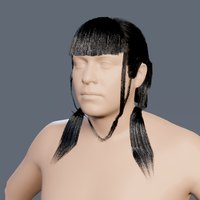
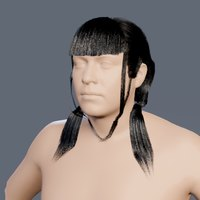
Hair editor v2.0: the Daz twin tails re-measured on v2female from two fitted cameras
With the head and neck now hers (v2female), the hairstyle was measured again
from cameras fitted by landmarks to her front and three-quarter pictures.

- styles.js daz_twin_tails: Fullness 0.33 (from 0.1: the top and sides were 0.4
  to 0.7 cm short all round; the plain Volume sliders do nothing to tied hair)
  and the tie 7 mm higher (Tie lower 3.3 cm, from 4: it sat 0.7 cm under hers on
  both sides). Its card made again.
- The hair's edge is now within about half a centimetre of hers from the crown
  to the tie in both views (the table in docs/HAIR_V2.md §10). Not matched: the
  tails under the ties (0.6 to 1.4 cm narrow, short at the tips), 0.7 to 1 cm
  behind the ear's top in the second view, the fringe's pieces, the sidelocks,
  the red streaks, the look's evenness.
- docs/HAIR_V2.md §10 rewritten: the head it is held on, the two views and how
  they are fitted, what her head's tilt does to the comparison, the numbers,
  and what the earlier "too wide by the tie" turned out to be (the neck, the
  tie's height and her pose, stacked). docs/CONTINUE.md.

Checked here: CHECKS ok (HAIR2 with it).

Claude-Session: https://claude.ai/code/session_014EE6XSs6cfVpYen7wFwNAY

diff --git a/tools/character/hair2/styles.js b/tools/character/hair2/styles.js
@@ -133,7 +133,7 @@ export const STYLES = {
   // thin sidelock a side. Held to the picture on the doll body (docs/HAIR_V2.md §10)
   daz_twin_tails: { label: "Low twin tails behind the ears, blunt fringe, long sidelocks", group: "daz",
     set: { parting: { kind: "none" }, ears: "tucked",
-      ties: { kind: "twin", height: 0, side: 0.85, tight: 0, drape: 1, full: 0.1, puff: 0.12, drop: 0.04,
+      ties: { kind: "twin", height: 0, side: 0.85, tight: 0, drape: 1, full: 0.33, puff: 0.12, drop: 0.033,
         tail: { length: 0.2, thick: 0.008, spread: 2, fan: 1, bloom: 0.65, flat: 0.7, out: 0.5, taper: 0.9, strands: 2.5, stiff: 0.8, fall: "front", sway: 0.8 }, tie: { kind: "elastic", colour: "#17120f" } },
       length: { fringe: 0.17 }, fringe: { kind: "blunt", line: 0.034, amount: 1.5, width: 52, hold: 0.7, wispy: 0.15, uneven: 0.1, choppy: 0.12, closed: 1, frame: 0.55, frameLine: -0.17, frameLocks: 1, frameStagger: 0, frameWispy: 0.6 }, texture: { clump: 0.3, strays: 20 }, look: "gloss_black" } },
   curls_shoulder: { label: "Shoulder-length curls", group: "women",

diff --git a/docs/HAIR_V2.md b/docs/HAIR_V2.md
@@ -399,72 +399,79 @@ head's hair 1.5 to 3 MB with its two 512 px textures.
 DECISIONS 2026-11-12, the 1:1: one hairstyle matched to its picture, to find what the system lacks. The style is
 `daz_twin_tails` (the group *From your Daz3D pictures*). The pictures stay out of git (`Saved/Hair2/daz/ref`).
 
-**The rig** (scratch scripts, not in git; the numbers are what matter). The style is grown on the body `v2female`
-(the Studio's v2female base at 1.62 m with a full bust, `grow.js` `V2FEMALE`; until item 8 below was done, the
-feminine base with a rounder face) and pictured by `tools/godot/hair2_check.py shots --origin 0,0,0 --size 1600x1200` from
-`v:-11:12:1.05:22:0:-0.07:-0.02` (11 degrees to her right, 12 above: her picture's camera as far as the ear, the
-eyes and the face's edges say). Her picture is turned level (her head is rolled 8.5 degrees), scaled 2.16 and laid
-eye-middle on eye-middle: at that one scale the ear's size, the ear-to-eye distance and the eyes' spacing agree with
-ours within a few percent (her picture is about 14 px to a centimetre). Then: side by side, her picture's edges
-over ours, and the hair's solid outer edge by height on her right side, hers against ours, in centimetres.
+**The head it is held on** is `v2female`, the Character Studio's base made for this (docs/CHARACTER_STUDIO.md §2f):
+her head and neck measured from the same two pictures. The test body adds 1.62 m and a full bust (`grow.js`
+`V2FEMALE`, `make.mjs --body v2female`). Until it existed the head was the feminine base with a rounder face, its
+neck 12 cm across at the ties where hers is 9: every number this section had before was measured on that body and
+is replaced below.
 
-**What is matched.**
-- The side, from above the ear down to 3 cm over the tie: within 0.3 cm of hers at every height (Drape 1, Fullness
-  0.1, Puff 0.12, the tie 4 cm lower, Gather 7.5 cm). Hers stands about 0.8 cm beyond the ear's rim as a solid edge
-  (1.3 with its wisps) and comes in to the tie as 1 − (1 − t)² over the last 7.3 cm: that is where Gather's number
-  and curve come from. Before: 0.4 to 2.6 cm too wide, or hidden behind the ear.
+**The rig** (scratch scripts in `rig2/`, not in git; the numbers are what matter). Two cameras, each fitted from
+landmarks, pictured by `tools/godot/hair2_check.py shots --origin 0,0,0 --size 1600x1200`:
+
+| her picture | view | the camera | her picture into our frame | landmarks land |
+|---|---|---|---|---|
+| the fifth (front) | `v:-9.5:5:1.05:22:0:-0.07:-0.02` | 9.5° to her right, 5° above | turned 7.9°, times 2.137 (29.3 px a centimetre) | 3.4 mm off (11 points) |
+| the first (her left front) | `v:32:-14.5:1.05:22:0:-0.07:-0.02` | 32° to her left, 14.5° below | turned -4.6°, times 2.091 (29.6 px a centimetre) | 2.8 mm off (10 points) |
+
+- *The landmarks*: on the body, MediaPipe's points through `Content/Studio/Bodies/MHR_landmarks.json` (the eyes'
+  middles, the nose's tip, under the nose, the mouth's corners, the chin) and the ear's top, rim and lobe as the
+  ear's own extremes in the view (the ear as `sculpt.js` finds it), the far ear's lobe where it shows; in her
+  picture, the same points read off gridded enlargements (her irises' middles for the eyes). Every turn and tilt
+  is tried on a grid and the roll, scale and shift come in closed form; the mapping that lays her picture into our
+  render comes from the same points as our camera draws them. Centimetres are the head's own (`body.js`: a head is
+  sized by its height from the top to the chin; v2female's frame is 6.6% smaller than the feminine base's on the
+  same skull, because its chin is higher: numbers tuned here are that much large for other bodies).
+- *The measure*: the hair's outer edge by height, counted in centimetres from the eyes' line (minus above it),
+  where a run of six dark pixels starts coming in from outside the head; on her right and her left in the front
+  picture, on her left in the other.
+- *Her pose, which the measure has to allow for*: her head is tilted 7.9° on her body in the front picture and
+  4.6° the other way in the other. Her hair hangs by the picture's own vertical, so against her head it hangs
+  inward on both measured sides (up to a centimetre by the tie, more down the tails), and her body under the chin
+  is turned by that much against ours in the frame. Her left side in the front picture can't be measured by its
+  edge: her sidelock hangs outermost there.
+
+**What is matched** (`daz_twin_tails`: Drape 1, Fullness 0.33, Puff 0.12, the tie 3.3 cm lower, Gather 7.5 cm).
+Ours against hers, centimetres, minus where ours is narrower:
+
+| under the eyes' line | front, her right | the other view, her left |
+|---|---|---|
+| 7 to 1 cm above | -0.3 to +0.1 | (her ears and horns: a headband, not hair) |
+| 0 to 1 | +0.2 to +0.3 | -1.0 to -0.7 |
+| 2 to 5 | 0.0 to -0.3 | -0.3 to 0.0 |
+| 6 to 8 (behind the ear's lower half) | -0.6 to -0.2 | +0.2 to -0.4 |
+| 9 to 11 (the tie) | +0.1 to -0.5 | -0.3 to -0.1 |
+| 12 to 13 | -0.3 to 0.0 | 0.0 (one row out by 1.4) |
+
+- So the hair's edge is within about half a centimetre of hers from the crown to the tie in both views. The two
+  settings that did it on the new head: **Fullness 0.33** (it was 0.1: the top and sides were 0.4 to 0.7 cm short
+  all the way round; the plain Volume sliders do nothing to tied hair, whose thickness is Fullness) and **the tie
+  7 mm higher** (Tie lower 3.3 cm, from 4: it sat 0.7 cm under hers on both sides, which read as 0.6 to 1 cm too
+  wide just over it).
 - The ears out, the hair behind them, nothing of it across the ear or the cheek.
-- The tie's place: level with hers; small and dark.
-- The tails: brushes that fan from the tie, lean out, taper to ragged tips; as long as hers.
 - The fringe's line (her lash line: 0.034), no gap down its middle, from the top of the head.
 - A long thin sidelock a side, to the chest.
 
-**What is not** (the list to work from, the biggest first):
+**What is not** (the list to work from):
 1. **The look**, in part. Under a light from the front every strand of ours lit up alike: a grey sheet, where hers
-   is black with bright strands. One term off at a time showed it was the highlight itself. The hair shader now has
-   **`streak`** (GODOT_LOOK §5p): the first highlight lock by lock, most locks dark and a few several times over,
-   about the same light in all; 0 for every other hair, 0.9 in the look `gloss_black` through its `bake`. Seen in
-   the rig: black with bright streak bundles, as hers. Still different: ours is striped evenly across the fringe
-   where hers has larger dark areas (her light is from one side; the rig's is from the front), and hers has a faint
-   teal tint in its highlights. The Studio's own shader has no `streak`: its tab shows the old sheen.
-2. **The tails right under the ties** were 0.9 to 2 cm wider than hers; leaving the tie almost plumb with the lean
-   building below, and widest further down (0.65), they are 0.8 to 0.9, and they lie inside her outlines on both
-   sides. Hers differ left and right (her head is tilted and the tails hang by gravity), ours are a pair; hers'
-   tips reach a little further out.
-3. **The last 3 cm over the tie**: 0.4 to 0.7 cm too wide, and the tie 0.6 to 0.8 cm further from the neck.
+   is black with bright strands. The hair shader has **`streak`** for that (GODOT_LOOK §5p): the first highlight
+   lock by lock; 0 for every other hair, 0.9 in the look `gloss_black` through its `bake`. Still different: ours
+   is striped evenly across the fringe where hers has larger dark areas (her light is from one side; the rig's is
+   from the front), and hers has a faint teal tint in its highlights. The Studio's own shader has no `streak`: its
+   tab shows the old sheen.
+2. **The tails under the ties.** On her right in the front picture ours are 0.6 to 1.4 cm narrower from 15 to 18 cm
+   under the eyes' line and 1 to 3 cm short at their tips. Hers hang by a vertical tilted 8° against her head and
+   are fuller lower down; ours are a pair. Not tuned on the new head yet.
+3. **Behind the ear's top, in the other view**: 0.7 to 1 cm narrow over the first centimetre under the eyes' line.
 4. **The fringe's pieces**: hers ends in locks with small steps and gaps; ours in a straighter line.
 5. **The sidelocks**: hers are flat glossy ribbons a centimetre wide that end in a point, a thin plait beside one;
    ours are thin strands, and there is no plait.
 6. **The red streaks**, the few fine strands across the ear, the flyaways: none.
-7. **From her left front**, her first picture, with a camera fitted to it. Seven points on `v2female`'s own
-   surface (the eyes, the ear's top, rim and lobe and the chin by casting the front rig's pixels onto the skin, the
-   nose's tip from the mesh) against the same points read off the picture; every turn and tilt tried, the roll,
-   scale and shift in closed form: **28 degrees to her left, 7 below, 14.5 px a centimetre** (within a pixel of
-   the best: 21 to 35, and 14 below to 1 above; the points land 7 px off, the ear's the most: her ears sit
-   higher than `v2female`'s). The scale agrees with the front picture's 14 on its own. In that frame, the hair's
-   outer edge behind her left ear, ours against hers by height: **0.4 to 0.8 cm too narrow behind the ear's upper
-   half, within 0.2 cm from its middle to under the lobe, 0.4 to 2 cm too wide by the tie.** Before the camera was
-   fitted this entry said hers stood 3.4 cm beyond the ear and ours 2: that was read by eye from 38 degrees with
-   her picture over-turned by 9, and it was wrong by about half.
-   *Fullness at the back* was held to both views and is **not used**: at 0.2 it gains 0.1 to 0.3 cm behind the
-   upper ear and loses 0.3 to 0.4 just over the tie, in both: the thickness is carried down the hanging hair into
-   the part that is already too wide. The tie moved forward under the ear's middle: worse from the front, the same
-   from here. What both views say is that ours carries its width too low (a pear, hers a bulb): the hanging hair
-   should come in sooner from a fuller top. Not built. The back is in no picture.
-8. **The head, and it is the cause of the error by the tie.** Read off her picture (14 px a centimetre), her head
-   from the front is about 11.6 cm wide at the lips, 9.1 at the tie's height and 7.5 at the neck: a small V of a
-   face on a slender neck. `v2female` is 14.0, 13.0 and 12.0 (the body's own outline at those heights): 4 cm wider
-   at the tie's height, 2 a side. The tie hangs beside it, so it sits 2 cm further out, which is the size of what
-   both views show there (0.4 to 2 cm too wide over the last centimetres and at the tie). The sculpt can't reach
-   her: with the jaw and the neck at -3 (past a person's range), the chin's width and the cheeks at -2, the same
-   three are 13.8, 12.8 and 11.8. **So a v2female base is required** (the user's condition, DECISIONS 2026-11-12,
-   the 1:1): a lower face and a neck with far more reach than the sliders have, as a base that every slider still
-   moves from. Until it exists the hair by the tie can't be judged closer than about 2 cm, and the two cameras
-   have to be fitted again on it. Her ears also sit higher on the face than `v2female`'s.
-   **Built since** (DECISIONS 2026-11-12, v2female; docs/CHARACTER_STUDIO.md §2f): the Studio's v2female base, with
-   a new control for the whole neck. On it the neck is 7.4 cm at its narrowest (the feminine base's 10.3; hers
-   about 7.5), the eyes 6.7 cm apart (5.7), the jaw narrower. `bodyByName("v2female")` is that base now, so
-   **every number above this line was measured on the body before it** and stands until the rig is fitted again.
+7. **The back** is in no picture.
+
+**What the earlier findings turned out to be.** Before the base, this section said the hair was 0.4 to 2 cm too wide
+by the tie and blamed the head: right, and more than it knew. Three things were stacked: the neck (12 cm across at
+the ties, hers 9.3: the base), the tie 0.7 cm too low (this style), and her head's tilt, which swings her hair in
+on the measured side (her pose: nothing to fix). *Fullness at the back* (`ties.back`) stays built and unused.
 
 **Not checked here:** the Studio's own tab draws the same hair, but a look's `bake` numbers are Godot's only.
 

diff --git a/docs/CONTINUE.md b/docs/CONTINUE.md
@@ -36,28 +36,17 @@ low twin tails behind the ears, long sidelocks) re-created 1:1, volume and curve
 aesthetic hair and apply that later to the rest of our styles", and offered a base head **v2female**, then asked
 for it ("lets create a v2female base").
 
-- **Built** (docs/HAIR_V2.md §3.7, §3.8, §10): tied hair that hangs to its tie (Drape, Gather, Puff, Fullness, Tie
-  lower), a route for it round an ear that's out, tails as brushes (Fan, Flat, lean out, Strands), a fringe closed at
-  its middle, a look that can ask more of its bake, the style `daz_twin_tails` in a group of its own, HAIR2's
-  assertions for each, the test body `v2female` in node. The older 65 styles are the same hair by hair.
-- **The rig** is scratch (her pictures stay out of git): §10 says how to rebuild it (the body, the camera, the scale
-  2.16, the roll 8.5, eye-middle on eye-middle, the outline by height).
-- **Matched:** the side from above the ear to 3 cm over the tie within 0.3 cm, the ears out, the tie's place, the
-  tails' kind and length, the fringe's line, the sidelocks' length.
-- **The look** went in after (the hair shader's `streak`: the first highlight lock by lock; `gloss_black` asks for
-  it): black with bright streak bundles in the rig. Left of it: ours is striped evenly, hers has larger dark areas
-  and a faint teal; the Studio's own shader has no `streak`.
-- **A second side** (her first picture) has a fitted camera now: 28 degrees to her left, 7 below, 14.5 px a
-  centimetre (the scratch `fitcam.mjs`: seven landmarks off `v2female`'s surface; `rig/compare2.py` maps her
-  picture into our frame and measures the edge behind the ear). The back of the head's hair hangs and is swept
-  round the head to the tie. Ours against hers there: 0.4 to 0.8 cm too narrow behind the ear's upper half, within
-  0.2 to under the lobe, 0.4 to 2 cm too wide by the tie. *Fullness at the back* (`ties.back`) is built and **not
-  used** (it costs more by the tie than it gains). **What to build:** ours carries its width too low; the hanging
-  hair should come in sooner from a fuller top (a bulb, not a pear), judged in both frames at once.
-- **The tails** leave their ties almost plumb now and the lean builds below: inside her outlines on both sides,
-  0.8 to 0.9 cm wide of hers right under the tie (from 2).
-- **Not matched, in order** (§10's list): the last 3 cm over the tie, the fringe's pieces, the sidelocks as ribbons and the plait, the red
-  streaks, strands across the ear, her first picture's view (a fuller bulb behind the ear), the back.
+- **Built for the hair** (docs/HAIR_V2.md §3.7, §3.8, §10): tied hair that hangs to its tie (Drape, Gather, Puff,
+  Fullness, Tie lower), a route for it round an ear that's out, tails as brushes (Fan, Flat, lean out, Strands), a
+  fringe closed at its middle, a look that can ask more of its bake (`streak`), the style `daz_twin_tails` in a
+  group of its own, HAIR2's assertions for each. The older 65 styles are the same hair by hair.
+- **Where the hairstyle stands, on the new head** (HAIR_V2 §10: the rig, the table): from two fitted cameras its
+  edge is within about half a centimetre of hers from the crown to the tie in both views (Fullness 0.33, the tie
+  3.3 cm lower). Not matched, in order: the tails under the ties (0.6 to 1.4 cm narrow, short at the tips), 0.7 to
+  1 cm behind the ear's top in the second view, the fringe's pieces, the sidelocks as ribbons and the plait, the
+  red streaks, the look's evenness and teal, `streak` in the Studio's own shader.
+- **The rig is scratch** (`rig2/`: her pictures stay out of git); §10 has what rebuilds it: the two views, the
+  scales and turns, how the landmarks are taken, what her head's tilt does to the comparison.
 - **The v2female base is built** (DECISIONS 2026-11-12, v2female; docs/CHARACTER_STUDIO.md §2f): a fourth base
   button and a switch in the Body tab, *what the feminine end becomes*: the feminine body, with nineteen plain
   sculpt values for the head, the neck and the shoulders (`MHR_presets.json` `sculpt.v2female`), every slider still
@@ -73,8 +62,8 @@ for it ("lets create a v2female base").
 - **It is held to two of her pictures** (the scratch `rig2/joint.mjs`: MediaPipe's points on the body and the ear
   as the sculpt finds it against the same points in each picture, a camera fitted for each): the front one from
   9.5 degrees to her right and 5 above, rolled 7.9, the points 3.4 mm off; the other from 32 to her left and 14.5
-  below, 2.8 mm. The first version's neck (-1, from a width read by eye) was too thin and the second (-0.4) too wide and flared at its top; it is -0.7 now.
-  Not matched: her right ear's lean, her larger eyes, her shoulders (lower under the chin than MHR's, but covered).
+  below, 2.8 mm. The first version's neck (-1, from a width read by eye) was too thin and the second (-0.4) too
+  wide and flared at its top; it is -0.7 now. Not matched: her right ear's lean, her larger eyes.
 - **What her head's roll means for the hair** (found while fitting, not yet used): in the front picture her head is
   rolled 8 degrees and her hair hangs by the picture's own vertical, so against her head her right tail hangs
   inward and her left outward. Ours hangs down the head's axis. Compare both sides and take the middle, or give
@@ -82,9 +71,9 @@ for it ("lets create a v2female base").
 - **A side effect**: the hair tools size a head from its top to its chin (`salonref.js` `headFrame`); v2female's
   chin is 1 cm higher, so its frame is 6.6% smaller than the feminine base's on the same skull and hair from the
   same numbers is that much smaller on it. Know it before carrying numbers tuned on v2female to other bodies.
-- **Next: the hair on the new head.** Everything in HAIR_V2 §10 was measured on the test body before the base. The
-  scratch `rig2/` (`shoot.sh`, `cmp.py`, `outline2.py`) pictures a head from both fitted cameras and measures the
-  hair's edge by height on both sides; then the hair by the tie, then §10's list.
+- **Next for the hair:** the tails on the new head (fuller lower down, their tips), then §10's list. For the
+  body: ask the user what they see in the Studio (the base's neck and shoulders were judged here on bald busts
+  from Godot, in MHR's own pose; the Studio shows a T-pose with the neck stood up, skin, eyes and hair).
 - **Then:** the other six Daz hairstyles; the
   new settings carried to the older styles (their cards made again).
 
